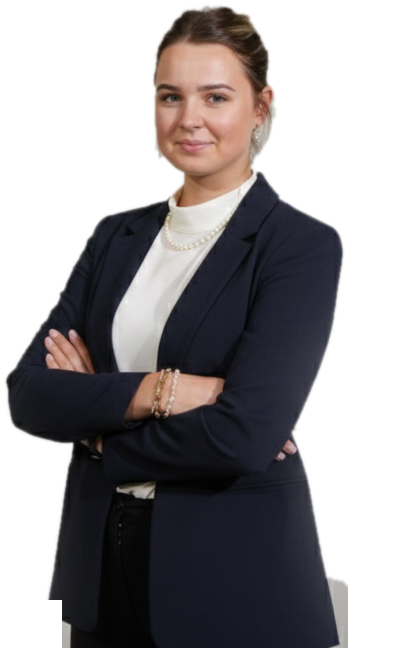
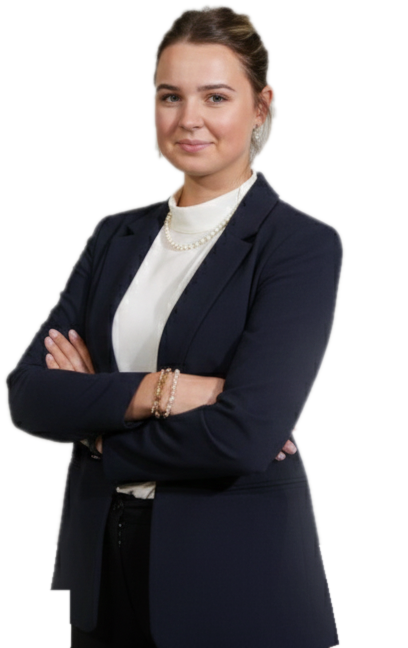
anpaaassung bild melina

Changed region(s): [[0.7941, 0.8642, 0.8529, 1.0], [0.1176, 0.8951, 0.1765, 1.0]]

diff --git a/frontend/styles/main.css b/frontend/styles/main.css
@@ -45,12 +45,14 @@ h2 { font-size: clamp(36px, 8vw, 110px); line-height: .95; }
 [data-layout="header"] .nav a { text-decoration: none; font: 700 14px var(--f-body); letter-spacing: .16em; text-transform: uppercase; padding-bottom: 4px; border-bottom: 2px solid transparent; }
 [data-layout="header"] .nav a:hover, [data-layout="header"] .nav a[aria-current="page"] { border-bottom-color: var(--espresso); }
 
+.nav-toggle { display: none; }
+
 /* Hero (Startseite) */
 [data-module="hero"] { height: calc(var(--u) * 62.5); max-width: 1440px; margin-inline: auto; padding: 0; overflow: hidden; }
 .hero-text { display: contents; }
 .hero-title { position: absolute; left: 0; right: 0; top: calc(var(--u) * 9); text-align: center; font-size: calc(var(--u) * 25.5); line-height: 1; color: var(--peony); white-space: nowrap; }
 .hero-script { position: absolute; left: calc(var(--u) * 16.7); top: calc(var(--u) * 5); font-size: calc(var(--u) * 17.4); color: var(--espresso); transform: rotate(-6deg); z-index: 4; }
-.hero-text p { position: absolute; left: var(--gutter); top: calc(var(--u) * 49); width: calc(var(--u) * 21); font-size: 18px; line-height: 1.6; z-index: 5; }
+.hero-text p { position: absolute; left: var(--gutter); top: calc(var(--u) * 49); width: calc(var(--u) * 36); max-width: 520px; font-size: 18px; line-height: 1.6; z-index: 5; }
 .hero-image { position: absolute; left: calc(var(--u) * 49); bottom: 0; width: calc(var(--u) * 30); height: calc(var(--u) * 56); object-fit: contain; object-position: bottom; z-index: 3; background: none; border-radius: 0; max-height: none; }
 
 /* Seitenkopf */
@@ -277,9 +279,18 @@ h2 { font-size: clamp(36px, 8vw, 110px); line-height: .95; }
   [data-module="zeitleiste"] li:nth-child(n+3) { border-top: 2px solid var(--cream); margin-top: 32px; }
 }
 @media (max-width: 760px) {
-  [data-layout="header"] { grid-template-columns: 1fr; gap: 16px; }
-  [data-layout="header"] .nav { margin-left: 0; justify-content: flex-start; gap: 8px 20px; flex-wrap: wrap; }
-  [data-layout="header"] .nav a { font-size: 12px; letter-spacing: .1em; }
+  [data-layout="header"] { grid-template-columns: 1fr auto; gap: 0; position: relative; z-index: 20; }
+  .nav-toggle { display: inline-flex; flex-direction: column; justify-content: center; gap: 6px; width: 56px; height: 56px; padding: 0 15px; background: var(--peony); border: 0; border-radius: 16px; cursor: pointer; }
+  .nav-toggle span { display: block; height: 3px; border-radius: 2px; background: var(--espresso); transition: transform .25s, opacity .2s; }
+  .nav-toggle[aria-expanded="true"] span:nth-child(1) { transform: translateY(9px) rotate(45deg); }
+  .nav-toggle[aria-expanded="true"] span:nth-child(2) { opacity: 0; }
+  .nav-toggle[aria-expanded="true"] span:nth-child(3) { transform: translateY(-9px) rotate(-45deg); }
+  [data-layout="header"] .nav-container { position: absolute; left: var(--gutter); right: var(--gutter); top: calc(100% - 8px); background: var(--cream); border-radius: 24px; box-shadow: 0 18px 40px rgba(62, 39, 35, .18); padding: 8px 28px; opacity: 0; visibility: hidden; transform: translateY(-8px); transition: opacity .2s, transform .2s, visibility .2s; }
+  [data-layout="header"].open .nav-container { opacity: 1; visibility: visible; transform: none; }
+  [data-layout="header"] .nav { margin-left: 0; flex-direction: column; gap: 0; }
+  [data-layout="header"] .nav li + li { border-top: 2px solid var(--peony); }
+  [data-layout="header"] .nav a { display: block; padding: 18px 0; font-size: 15px; letter-spacing: .14em; border-bottom: 0; }
+  [data-layout="header"] .nav a[aria-current="page"] { text-decoration: underline; text-underline-offset: 6px; text-decoration-thickness: 2px; }
 
   [data-module="hero"] { height: auto; display: flex; flex-direction: column; align-items: center; padding: 8px var(--gutter) 0; }
   .hero-text { display: flex; flex-direction: column; align-items: center; text-align: center; }

diff --git a/frontend/scripts/main.js b/frontend/scripts/main.js
@@ -76,3 +76,19 @@ document.querySelectorAll('form[data-contact]').forEach((f) => {
     }
   })
 })
+
+// Mobiles Menü (Burger)
+(() => {
+  const header = document.querySelector('[data-layout="header"]')
+  const btn = header && header.querySelector('.nav-toggle')
+  if (!btn) return
+  const set = (open) => {
+    header.classList.toggle('open', open)
+    btn.setAttribute('aria-expanded', open)
+    btn.setAttribute('aria-label', open ? 'Menü schliessen' : 'Menü öffnen')
+  }
+  btn.addEventListener('click', () => set(!header.classList.contains('open')))
+  header.querySelectorAll('.nav a').forEach((a) => a.addEventListener('click', () => set(false)))
+  document.addEventListener('keydown', (e) => { if (e.key === 'Escape') set(false) })
+  document.addEventListener('click', (e) => { if (!header.contains(e.target)) set(false) })
+})()

diff --git a/frontend/views/layout/header.php b/frontend/views/layout/header.php
@@ -6,7 +6,8 @@ $logo = get_global_logo();
     <a class="logo-link" href="<?= esc_url(home_url('/')) ?>" aria-label="Zur Startseite">
         <?php if ($logo['src']) : ?><img class="logo" src="<?= esc_url($logo['src']) ?>" alt="<?= esc_attr($logo['alt']) ?>"><?php else : ?><span class="logo-text">MG</span><?php endif; ?>
     </a>
-    <nav class="nav-container" aria-label="Hauptnavigation">
+    <button type="button" class="nav-toggle" aria-label="Menü öffnen" aria-expanded="false" aria-controls="hauptmenue"><span></span><span></span><span></span></button>
+    <nav class="nav-container" id="hauptmenue" aria-label="Hauptnavigation">
         <ul class="nav">
             <?php foreach ($menu as $item) : ?>
                 <li class="nav-item"><a target="<?= esc_attr($item['target']) ?>" href="<?= esc_url($item['url']) ?>"><?= esc_html($item['title']) ?></a></li>
